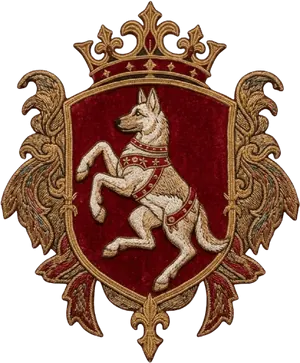
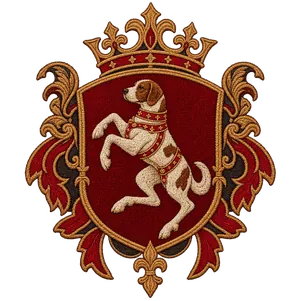
Build the site for its own domain, and the dog's new crest
The site is served from https://kingdomrpbrasil.com.br at the root, but the address in
site.config.json still had the /kcd_2_ui path, so the pages were built for a path that does
not exist there and every picture and the stylesheet answered 404. The address is now the
domain: the workflow builds for /, and the canonical link, the preview image, robots.txt and
sitemap.xml follow. The README says the address and the domain must match.

The dog's crest is the user's corrected art.

diff --git a/README.md b/README.md
@@ -13,7 +13,7 @@ Precisa de Node **22.22.3 ou mais novo, ou 24.15+** (o Angular 22 exige). Na má
 | `npm install` | instala as dependências |
 | `npm start` | abre o site em `http://localhost:4200`, recarregando ao salvar |
 | `npm run build` | gera o site em `dist/kcd2-rp-brasil/browser` (é essa pasta que se publica) |
-| `npm run build -- --base-href /kcd_2_ui/` | o mesmo, montado para o caminho do GitHub Pages (o que o workflow faz) |
+| `npm run build -- --base-href /kcd_2_ui/` | o mesmo, montado para um caminho (só para testar o endereço antigo do GitHub Pages; o domínio próprio é na raiz) |
 | `npm test` | roda os testes (Vitest) |
 
 O `build` e o `start` rodam antes dois verificadores: `scripts/seo-files.mjs` (escreve `robots.txt` e `sitemap.xml`) e
@@ -21,17 +21,21 @@ O `build` e o `start` rodam antes dois verificadores: `scripts/seo-files.mjs` (e
 
 ## No ar
 
-O site está em **https://mauroalvess.github.io/kcd_2_ui/** (GitHub Pages, HTTPS), publicado do repositório
-`MauroAlvess/kcd_2_ui`. O código do repositório é privado; só o site é público.
+O site está em **https://kingdomrpbrasil.com.br/** (GitHub Pages, HTTPS), publicado do repositório
+`MauroAlvess/kcd_2_ui`. O código do repositório é privado; só o site é público. O endereço antigo,
+`mauroalvess.github.io/kcd_2_ui`, o GitHub redireciona para o domínio.
 
 - **Publicar uma mudança:** é só dar `git push` na branch `main`. O workflow *Publicar o site*
   (`.github/workflows/deploy.yml`) roda os testes, faz o build e publica, em uns 2 minutos. Dá para rodar à mão na aba
   *Actions* do repositório. Se um teste falhar, nada é publicado e o site continua como estava.
 - **Endereço do site:** `"url"` em `src/site.config.json`. É dele que saem o link canônico, o `sitemap.xml`, a imagem de
-  prévia do link no Discord/WhatsApp e o caminho para o qual o site é montado (`/kcd_2_ui/`).
-- **Domínio próprio (quando tiver):** em *Settings → Pages → Custom domain* do repositório, ponha o domínio e crie no
-  provedor do domínio um registro `CNAME` apontando para `mauroalvess.github.io`; depois troque o `"url"` para
-  `"https://seudominio.com.br"` e dê push. O workflow passa a montar o site para `/` sozinho.
+  prévia do link no Discord/WhatsApp e o caminho para o qual o site é montado (`/` no domínio próprio; um endereço com
+  caminho, como `https://mauroalvess.github.io/kcd_2_ui`, monta o site para `/kcd_2_ui/`).
+- **Domínio próprio (já em uso: `kingdomrpbrasil.com.br`):** em *Settings → Pages → Custom domain* do repositório está o
+  domínio, e no provedor há o registro `CNAME` (`www`) e os registros `A` do GitHub para a raiz. **O `"url"` do
+  `site.config.json` tem de ser o mesmo endereço**: com o domínio no ar e o `"url"` ainda sob `/kcd_2_ui`, o site é
+  montado para um caminho que não existe e as imagens e o CSS dão 404 (foi o que aconteceu no primeiro dia). Para trocar de
+  domínio: troque aqui e em *Custom domain*, e dê push.
 - **Convite do Discord permanente:** o convite atual (`"discord"` no mesmo arquivo) **expira em 13/11/2026**. No Discord:
   *Convidar pessoas → Editar link de convite → Expirar depois de: Nunca*, e troque o link no `site.config.json`.
 
@@ -86,9 +90,8 @@ removê-lo (`knock_out_checkerboard`): a linha que o traz de volta está comenta
 - Cartões para Discord, WhatsApp e redes (Open Graph e Twitter) e dados estruturados `GameServer`, `Organization` e `WebSite`.
 - Imagens em WebP em dois tamanhos, fontes próprias (sem Google Fonts) e a foto do topo pré-carregada.
 - Depois de publicar: cadastre o site no [Google Search Console](https://search.google.com/search-console) (propriedade
-  do tipo *Prefixo do URL*: `https://mauroalvess.github.io/kcd_2_ui/`) e envie o
-  `https://mauroalvess.github.io/kcd_2_ui/sitemap.xml`. Sob um caminho o `robots.txt` não é lido pelos buscadores; o
-  sitemap entregue no Search Console cumpre o papel dele.
+  do tipo *Domínio* ou *Prefixo do URL*: `https://kingdomrpbrasil.com.br/`) e envie o
+  `https://kingdomrpbrasil.com.br/sitemap.xml`. Na raiz do domínio o `robots.txt` já é lido pelos buscadores.
 
 ## Outra hospedagem
 
